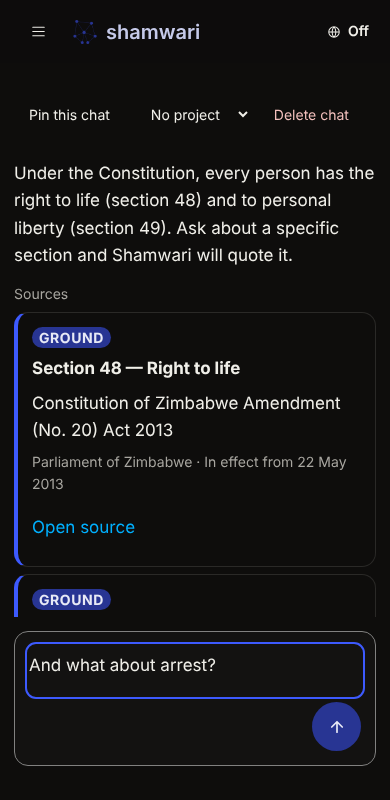
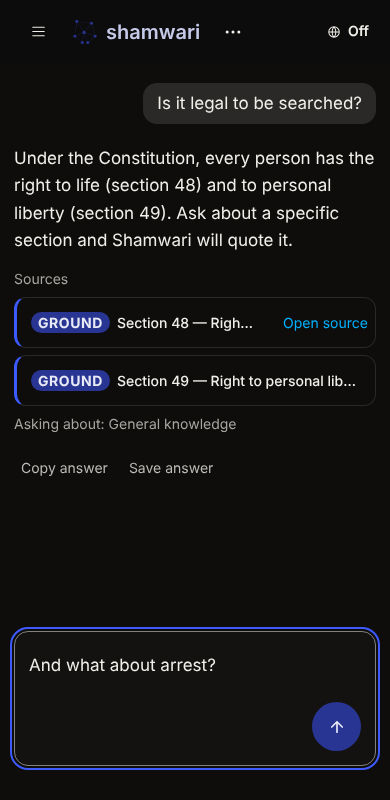
feat(lite): one edge on the composer, a ... menu by the chat title, compact sources
Refs #144

The composer's container is its only edge (focus ring on the container). Pin, project and delete move from a loose toolbar above the thread into a popover opened by a ... button beside the chat's title; Delete still asks first. A source is one compact row with the document, issuer and date under a disclosure, so the answer leads.

Claude-Session: https://claude.ai/code/session_0114U9k962C3ZtvAibSYjB7a

diff --git a/site/src/chat/chat.css b/site/src/chat/chat.css
@@ -1436,3 +1436,121 @@ html.app :where(#log, #empty, .ask, .chat-tools, .notice) {
 .side-group > summary > span {
   flex: none;
 }
+
+/* ---- the composer's one edge, the chat's "..." menu, compact sources ------------------------------------------ */
+
+/* The container is the only edge. The text box inside has none of its own: no border, no fill. Its focus ring is the
+   container's (:focus-within); the box keeps a transparent outline, which a high-contrast mode still draws. */
+.composer textarea {
+  border: 0;
+  background: transparent;
+  box-shadow: none;
+  outline: 2px solid transparent;
+  outline-offset: 0;
+}
+.composer:focus-within {
+  outline: 2px solid var(--ring);
+  outline-offset: 2px;
+}
+.composer-bar {
+  justify-content: space-between; /* "+" (attachments) at the left, send at the right */
+}
+.composer-bar > :only-child {
+  margin-inline-start: auto;
+}
+
+/* The title and its "..." in the top bar. */
+.chat-head {
+  display: flex;
+  align-items: center;
+  flex: 1 1 6rem;
+  min-width: 0;
+  gap: var(--gap-floor);
+}
+.chat-head .chat-title {
+  flex: 0 1 auto;
+}
+.chat-menu-btn {
+  flex: none;
+}
+/* The menu itself: a small popover under the button, not a loose toolbar above the thread. */
+#chat-tools:not(:popover-open) {
+  display: none;
+}
+#chat-tools[popover]:popover-open {
+  position: fixed;
+  inset: auto;
+  top: 3.25rem;
+  right: var(--page-inset);
+  margin: 0;
+  inline-size: min(16rem, calc(100vw - 2 * var(--page-inset)));
+  max-inline-size: none;
+  display: flex;
+  flex-direction: column;
+  align-items: stretch;
+  gap: var(--gap-floor);
+  padding: var(--gap-floor);
+  border: 1px solid var(--border);
+  border-radius: var(--radius-md);
+  background: var(--popover, var(--background));
+  color: var(--popover-foreground, var(--foreground));
+  box-shadow: 0 8px 24px color-mix(in oklab, var(--foreground) 18%, transparent);
+}
+#chat-tools .btn,
+#chat-tools select {
+  justify-content: flex-start;
+  inline-size: 100%;
+  text-align: start;
+}
+
+/* Sources: one compact row each, the detail under a disclosure. */
+.cite {
+  display: flex;
+  align-items: flex-start;
+  gap: var(--gap-floor);
+  padding: 0;
+  border-left-width: 3px;
+  border-radius: var(--radius-md);
+}
+.cite-more {
+  flex: 1 1 0;
+  min-width: 0;
+  display: grid;
+}
+.cite-more > summary {
+  display: flex;
+  align-items: center;
+  gap: var(--gap-floor);
+  min-height: var(--size-control-sm);
+  padding-inline: var(--inset-floor);
+  cursor: pointer;
+  list-style: none;
+  min-width: 0;
+}
+.cite-more > summary::-webkit-details-marker {
+  display: none;
+}
+.cite-more > summary > strong {
+  min-width: 0;
+  overflow: hidden;
+  text-overflow: ellipsis;
+  white-space: nowrap;
+  font-size: var(--fs-small);
+  font-weight: 500;
+}
+.cite-more[open] > summary > strong {
+  white-space: normal;
+}
+.cite-more > :not(summary) {
+  padding-inline: var(--inset-floor);
+  padding-block-end: var(--gap-floor);
+}
+.cite .cite-link {
+  flex: none;
+  min-height: var(--size-control-sm);
+  padding-inline: var(--gap-floor);
+  font-size: var(--fs-small);
+}
+.cite .badge {
+  flex: none;
+}

diff --git a/site/e2e/shell.spec.ts b/site/e2e/shell.spec.ts
@@ -67,3 +67,43 @@ test('the round send button waits for text; Enter sends and Shift+Enter is a new
   await expect(page.locator('article.msg.user')).toHaveCount(1);
   await expect(page.locator('#send')).toBeDisabled();
 });
+
+test('the composer has one edge: the container, not the text box inside it', async ({ page }) => {
+  await openChat(page);
+  const box = await page.locator('#q').evaluate((el) => ({ border: parseFloat(getComputedStyle(el).borderTopWidth), bg: getComputedStyle(el).backgroundColor }));
+  expect(box.border).toBe(0);
+  expect(box.bg).toBe('rgba(0, 0, 0, 0)');
+  await page.locator('#q').focus();
+  expect(await page.locator('.composer').evaluate((el) => getComputedStyle(el).outlineStyle), 'the ring is the container\'s').toBe('solid');
+});
+
+test('the chat\'s "..." menu sits by its title and holds pin, project and delete', async ({ page }) => {
+  await openChat(page);
+  await expect(page.locator('#chat-menu')).toBeHidden(); // no chat yet
+  await ask(page, 'Is it legal to be searched?');
+  await expect(page.locator('article.msg.bot:not(.pending)')).toBeVisible();
+  await expect(page.locator('#chat-tools')).toBeHidden(); // closed: not a toolbar over the thread
+  await page.locator('#chat-menu').click();
+  await expect(page.locator('#chat-tools')).toBeVisible();
+  for (const sel of ['#pin-chat', '#chat-project', '#delete-chat']) await expect(page.locator(sel)).toBeVisible();
+  await page.keyboard.press('Escape');
+  await expect(page.locator('#chat-tools')).toBeHidden();
+  // Delete asks first: declining keeps the chat.
+  page.once('dialog', (d) => void d.dismiss());
+  await page.locator('#chat-menu').click();
+  await page.locator('#delete-chat').click();
+  await expect(page.locator('article.msg.user')).toHaveCount(1);
+});
+
+test('a source is one compact row, with the detail under it', async ({ page }) => {
+  await openChat(page);
+  await ask(page, 'Is everyone equal under the law?');
+  const cite = page.locator('.cite').first();
+  await expect(cite).toBeVisible();
+  await expect(cite.locator('.badge')).toHaveText('Ground');
+  expect(await cite.evaluate((el) => el.getBoundingClientRect().height), 'one row').toBeLessThanOrEqual(56);
+  await expect(cite.locator('.cite-meta')).toBeHidden();
+  await expect(cite.locator('.cite-link')).toBeVisible();
+  await cite.locator('summary').click();
+  await expect(cite.locator('.cite-meta')).toBeVisible();
+});

diff --git a/site/src/chat/render.ts b/site/src/chat/render.ts
@@ -44,13 +44,23 @@ export function renderCitation(c: Citation, s: Strings, lang: Language): HTMLEle
   const meta = [c.authority, c.effective_from ? `${s.effective} ${formatDate(c.effective_from, lang)}` : '']
     .filter(Boolean)
     .join(' · ');
+  // One compact row: the Ground badge and the section (or the document's title), then a small "open" link. The rest (the
+  // document, who made it, when it took effect) opens under it, so the answer's words lead and the detail is one tap away.
   return h(
     'li',
     { class: 'cite' },
-    h('span', { class: 'badge', title: s.groundHint }, s.ground),
-    c.heading ? h('strong', { class: 'cite-heading' }, c.heading) : null,
-    h('span', { class: 'cite-title' }, c.title),
-    meta ? h('span', { class: 'cite-meta' }, meta) : null,
+    h(
+      'details',
+      { class: 'cite-more' },
+      h(
+        'summary',
+        {},
+        h('span', { class: 'badge', title: s.groundHint }, s.ground),
+        h('strong', { class: c.heading ? 'cite-heading' : 'cite-title' }, c.heading || c.title),
+      ),
+      c.heading ? h('span', { class: 'cite-title' }, c.title) : null,
+      meta ? h('span', { class: 'cite-meta' }, meta) : null,
+    ),
     c.url
       ? h('a', { class: 'cite-link', href: c.url, target: '_blank', rel: 'noopener noreferrer' }, s.openSource)
       : null,

diff --git a/site/e2e/chat.spec.ts b/site/e2e/chat.spec.ts
@@ -1,5 +1,5 @@
 import { expect, test } from '@playwright/test';
-import { ask, makeProject, openAccount, openChat, openChats, openSection, closeChats, newChat, seedLegacyQuestion } from './helpers';
+import { openChatMenu, ask, makeProject, openAccount, openChat, openChats, openSection, closeChats, newChat, seedLegacyQuestion } from './helpers';
 
 test('asks a question and renders the answer with its citation card', async ({ page }) => {
   await openChat(page);
@@ -338,12 +338,14 @@ test('the drawer pins a chat, files it in a project, keeps a saved answer, and d
   await makeProject(page, 'Know my rights');
   await expect(page.locator('#project-list summary')).toContainText('Know my rights (0)');
   await page.keyboard.press('Escape');
+  await openChatMenu(page);
   await page.locator('#chat-project').selectOption({ label: 'Know my rights' });
   await openChats(page);
   await expect(page.locator('#project-list summary')).toContainText('Know my rights (1)');
 
   // Pin the chat: it is listed under Pinned.
   await page.keyboard.press('Escape');
+  await openChatMenu(page);
   await page.locator('#pin-chat').click();
   await expect(page.locator('#pin-chat')).toHaveAttribute('aria-pressed', 'true');
   await openSection(page, 'Chat');

diff --git a/site/e2e/a11y.spec.ts b/site/e2e/a11y.spec.ts
@@ -1,6 +1,6 @@
 import AxeBuilder from '@axe-core/playwright';
 import { expect, test, type Page } from '@playwright/test';
-import { ask, makeProject, newChat, openAccount, openChat, openChats, seedLegacyQuestion, openSection, closeChats } from './helpers';
+import { openChatMenu, ask, makeProject, newChat, openAccount, openChat, openChats, seedLegacyQuestion, openSection, closeChats } from './helpers';
 
 // PW_CPU_THROTTLE=4 runs every test here on a CPU four times slower, to flush out timing races (animations, async renders)
 // that a quick machine hides. Off by default.
@@ -248,7 +248,9 @@ test('the drawer with a project, a pinned chat and a saved answer meets the Bund
   await openChats(page);
   await makeProject(page, 'Know my rights');
   await page.keyboard.press('Escape');
+  await openChatMenu(page);
   await page.locator('#chat-project').selectOption({ label: 'Know my rights' });
+  await openChatMenu(page);
   await page.locator('#pin-chat').click();
   await expect(page.locator('#chat-tools')).toBeVisible();
   expect(await underTheFloor(page), 'chat tools').toEqual([]);

diff --git a/site/src/chat/app.ts b/site/src/chat/app.ts
@@ -453,7 +453,10 @@ export async function startApp(opts: { apiBase: string; authMode?: AuthMode }): 
   const syncChatTools = () => {
     const s = strings();
     const tools = $('#chat-tools');
-    tools.hidden = thread.messages.length === 0;
+    const none = thread.messages.length === 0;
+    if (none && tools.matches(':popover-open')) (tools as HTMLElement & { hidePopover(): void }).hidePopover();
+    tools.hidden = none;
+    $('#chat-menu').hidden = none;
     const pin = $('#pin-chat');
     pin.textContent = thread.pinned ? s.unpin : s.pin;
     pin.setAttribute('aria-pressed', String(!!thread.pinned));
@@ -479,6 +482,7 @@ export async function startApp(opts: { apiBase: string; authMode?: AuthMode }): 
   });
   $('#delete-chat').addEventListener('click', async () => {
     if (!confirm(strings().deleteChatConfirm)) return;
+    $('#chat-tools').hidePopover?.();
     const gone = thread;
     live.delete(gone.id);
     gone.messages = [];

diff --git a/site/e2e/helpers.ts b/site/e2e/helpers.ts
@@ -104,3 +104,8 @@ export async function seedLegacyQuestion(
   await page.reload();
   await page.waitForSelector('html[data-ready="true"]');
 }
+
+/** Open the chat's "..." menu beside its title (pin, project, delete). */
+export async function openChatMenu(page: Page) {
+  if (!(await page.locator('#chat-tools').evaluate((el) => el.matches(':popover-open')))) await page.locator('#chat-menu').click();
+}

diff --git a/docs/chat-app.md b/docs/chat-app.md
@@ -255,5 +255,8 @@ behaviour; the geometry tests moved with it. Screenshots (light and dark; 390, 1
   is the app name, for screen readers only). Replies are plain prose with a quiet row under them (Copy answer, Save answer); the
   person's own question is a soft block at the right. The composer is one rounded container: the text above, a round send button
   below that is muted and disabled until there is text; Enter sends, Shift+Enter is a new line.
-- **Not built yet, on purpose:** per-row "…" actions (pin, move, delete stay in the open chat's tools row), thumbs up/down (nothing
+- **Chat menu and sources:** pin, project and delete live in a "…" menu beside the chat's title (a popover; Delete still asks first). A
+  source is one compact row (Ground badge, the section, an "Open source" link) with the document, issuer and date under a disclosure.
+  The composer's container is its only edge; its focus ring is the container's.
+- **Not built yet, on purpose:** per-row "…" actions (the same menu for a row in the drawer), thumbs up/down (nothing
   stores feedback), read aloud (no Shona/Ndebele text to speech), and the "+" attach and microphone buttons (the next piece).
